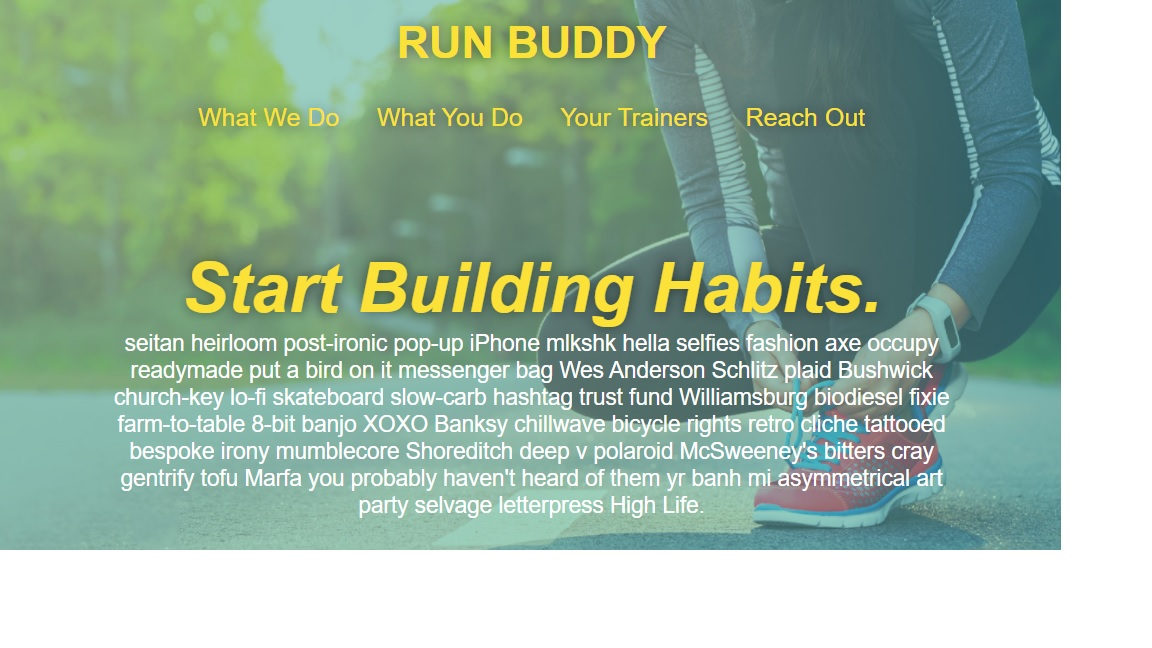
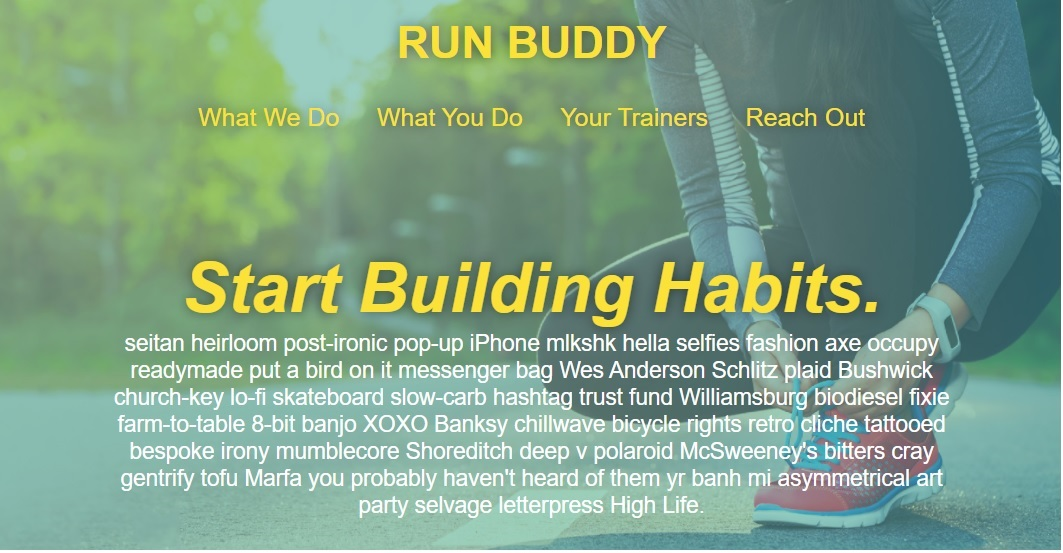
hero and main contents

diff --git a/index.html b/index.html
@@ -15,10 +15,10 @@
         <nav>
             <ul>
                 <li>
-                    <a href="#aboutme">About Me</a> 
+                    <a href="#aboutme-nav">About Me</a> 
                 </li>
                 <li>
-                    <a href="#work">Work</a>
+                    <a href="#work-nav">Work</a>
                 </li>
                 <li>
                     <a href="#contactme">Contact Me</a>
@@ -31,59 +31,87 @@
     </header>
 
     <section class="hero">
-        <h2>Let's Build Our Future Together!</h2>
+        <div>
+            <img src="./assets/images/avatar.jpg" alt="">
+        </div>
+        <div>
+            <h2>Let's Build Our Future Together!</h2>
+        </div>
+        
     </section>
     
     <main>
-        <section id="aboutme" class="main-section main-about-me">
+        <span id="aboutme-nav"></span>
+        <section class="main-section">
             <div>
                 <h2>About Me</h2>
             </div>
-            <div>
+            <div class="main-content">
                 <p>Lorem ipsum dolor sit amet consectetur adipisicing elit. Perspiciatis, ab autem ipsam nobis laudantium aliquid deleniti id ex praesentium modi voluptates minus velit beatae sed neque dolore saepe eum accusantium!</p>
+                <p>Lorem ipsum dolor sit amet consectetur adipisicing elit. Expedita inventore esse quis asperiores placeat quae fugiat quisquam molestiae alias optio distinctio iure, eaque omnis, itaque quod maiores commodi est sit!</p>
             </div>
         </section>
-        <section id="work" class="main-section works">
+
+        <span id="work-nav"></span>
+        <section class="main-section">
             <div>
                 <h2>Work</h2>
             </div>
-            <div class="main-projects">
-                <div class="main-project">
-                    <h3>Run Buddy</h3>
-                    <img src="./assets/images/run-buddy.jpg" width=300 alt="">
+            <div class="main-projects-wrapper">
+                <div class="project-highlight">
+                    <a href="https://jojobautistaum.github.io/run-buddy/"  target="_blank">
+                        <img src="./assets/images/run-buddy.jpg" alt="">
+                    </a>
                 </div>
-                <div class="main-project">
-                    <h3>Project 2</h3>
-                    <img src="./assets/images/run-buddy.jpg" width=300 alt="">
-                </div>
-                <div class="main-project">
-                    <h3>Project 3</h3>
-                    <img src="./assets/images/run-buddy.jpg" width=300 alt="">
-                </div>
-                <div class="main-project">
-                    <h3>Project 4</h3>
-                    <img src="./assets/images/run-buddy.jpg" width=300 alt="">
-                </div>
-                <div class="main-project">
-                    <h3>Project 5</h3>
-                    <img src="./assets/images/run-buddy.jpg" width=300 alt="">
-                </div>
-                <div class="main-project">
-                    <h3>Project 6</h3>
-                    <img src="./assets/images/run-buddy.jpg" width=300 alt="">
+                <div class="main-projects">
+                    <div class="main-project">
+                        <h3>HoriSEOn</h3>
+                        <a href="https://jojobautistaum.github.io/on-the-job-Tickets/"  target="_blank">
+                            <img src="./assets/images/horiSEOn.jpg" alt="">
+                        </a>
+                    </div>
+                    <div class="main-project">
+                        <h3>Password Generator</h3>
+                        <a href="./under-construction.html" target="_blank">
+                            <img src="./assets/images/password-generator.jpg" alt="">
+                        </a>
+                    </div>
+                    <div class="main-project">
+                        <h3>Code Quiz Generator</h3>
+                        <a href="./under-construction.html" target="_blank">
+                            <img src="./assets/images/code-quiz-generator.jpg" alt="">
+                        </a>
+                    </div>
+                    <div class="main-project">
+                        <h3>Work Day Scheduler</h3>
+                        <a href="./under-construction.html" target="_blank">
+                            <img src="./assets/images/work-day=scheduler.jpg" alt="">
+                        </a>
+                    </div>
                 </div>
             </div>
         </section>
-        <section id="contactme" class="main-section contact-me">
-            <h2>Contact Me</h2>
-            <h3>Phone: 555-555-5555</h3>
-            <h3>Email: email@gmail.com</h3>
-            <h3>Linkedin: https://www.linkedin.com/in/jojo-bautista/ </h3>
+
+        <section id="contactme" class="main-section">
+            <div>
+                <h2>Contact Me</h2>
+            </div>
+            <div class="main-content">
+                <p>📞 Phone: 555-555-5555</p>
+                <p>📧 Email: email@gmail.com</p>
+                <p>Github: https://github.com/jojobautistaum</p>
+                <p>Linkedin: https://www.linkedin.com/in/jojo-bautista/</p>
+            </div>
         </section>
-        <section id="resume" class="main-section resume-req">
-            <h2>Resume</h2>
-            <p>If you are a Hiring Manager, please contact me for a copy of my resume</p>
-            <p>I will be happy to work with you!</p>
+
+        <section id="resume" class="main-section">
+            <div>
+                <h2>Resume</h2>
+            </div>
+            <div class="main-content">
+                <p>If you are a Hiring Manager, please contact me for a copy of my resume</p>
+                <p>I will be happy to work with you!</p>
+            </div>
         </section>
     </main>
 

diff --git a/assets/css/styles.css b/assets/css/styles.css
@@ -4,8 +4,15 @@
     padding: 0;
   }
 
+  /* ensure that about-me and work top info will not go under the header when selected */
+  #aboutme-nav, #work-nav{
+    position: relative;
+    top: -125px;
+}
+
+/* header section START */
 header {
-    /*z-index: 9999;*/
+    z-index: 9999;
     color: #91CBCD;
     background-color: black;
     background-position: center;
@@ -24,10 +31,8 @@ header h1 {
     margin: 0;
     font-size: 3.5vw;
     background-color: #91CBCD;
-    /*align-items: center;*/
     padding: 15px 50px;
     border-radius: 15px;
-    
 }
 
 header h1 a {
@@ -61,7 +66,9 @@ header nav ul li a:hover {
     font-weight: bolder;
     border-radius: 15px;
 }
+/* header section END */
 
+/* hero section START */
 .hero {
     background-image: url('../images/hero-bg.jpg');
     background-size: cover;
@@ -74,6 +81,15 @@ header nav ul li a:hover {
     background-position: 100%;
 }
 
+.hero img {
+    margin: 1% 1%;
+    width: 15%;
+    border-radius: 100px;
+    border: 3px solid #91CBCD;
+    position: relative;
+    left: 0;
+}
+
 .hero h2 {
     margin: 250px 30px 5px;
     color: black;
@@ -81,52 +97,84 @@ header nav ul li a:hover {
     padding: 20px 15px;
     border-radius: 15px;
 }
+/* hero section END */
 
+main {
+    background-image: url('../images/background-pattern.jpg');
+}
+
+/* main section START */
 .main-section {
     display: flex;
+    flex-wrap: wrap;
+    flex-flow: row;
+    width: 100%;
 }
 
 .main-section h2{
+    color: #2A607C;
     font-size: 4vw;
     width: 15vw;
-    height: 80%;
-    margin: 10% 0;
+    min-height: 100px;
+    overflow: hidden;
     text-align: right;
-    border-right: 5px solid black;
+}
+
+.main-content {
+    min-height: 100px;
+    overflow: hidden;
+    margin: 1% 0;
+    border-left: 5px solid black;
 }
 
 .main-section p {
-    margin: 50px 20px;
+    margin: 10px 20px;
     text-align: left;
     align-items: center;
     justify-content: center;
 }
 
-
-.works {
-    height: 120vh;
-    width: 100vw;
-    margin: 5%;
-}
-
-
 .main-projects {
     display: flex;
     flex-wrap: wrap;
     justify-content: space-around;
-    align-items: center;
+    align-items: center; 
+    padding: 0 2%;
 }
-
 
 .main-project {
-   align-self: center;
+   width: 20vw;
+   justify-content: center;
+   text-align: center;
+   margin: 3vh 0;
 }
 
-
-.main-project img {
-   height: 25%;
-   weight: 25%;
+.main-project h3 {
+    font-size: 2vw;
+    color: #2A607C;
+    font-weight: bold;
 }
 
+.main-project img, .project-highlight img {
+   height: 100%;
+   width: 100%;
+   padding: 0 3%;
+}
 
+.project-highlight img:hover {
+    opacity: 0.5;
+}
+
+.main-project img:hover {
+    height: 120%;
+    width: 120%;
+}
+
+.main-projects-wrapper {
+    display: flex;
+    flex-direction: column;
+    margin: 1% 0;
+    border-left: 5px solid black;
+}
+/* main section END */
 

diff --git a/under-construction.html b/under-construction.html
@@ -1,0 +1,13 @@
+<!DOCTYPE html>
+<html lang="en">
+<head>
+    <meta charset="UTF-8">
+    <meta http-equiv="X-UA-Compatible" content="IE=edge">
+    <meta name="viewport" content="width=device-width, initial-scale=1.0">
+    <link rel="stylesheet" href="./assets/css/secondary-style.css">
+    <title>Under Construction</title>
+</head>
+<body>
+    <img src="./assets/images/under-construction.jpg"  alt="">
+</body>
+</html>

diff --git a/assets/css/secondary-style.css b/assets/css/secondary-style.css
@@ -1,0 +1,15 @@
+* {
+    margin: 0;
+    padding: 0;
+    background-image: url(../images/background-pattern.jpg);
+    background-size: fill;
+}
+
+img {
+    display: block;
+    max-width: 100%;
+    width: 50vw;
+    max-height: 100%;
+    height: 50vw;
+    margin: auto;
+}
